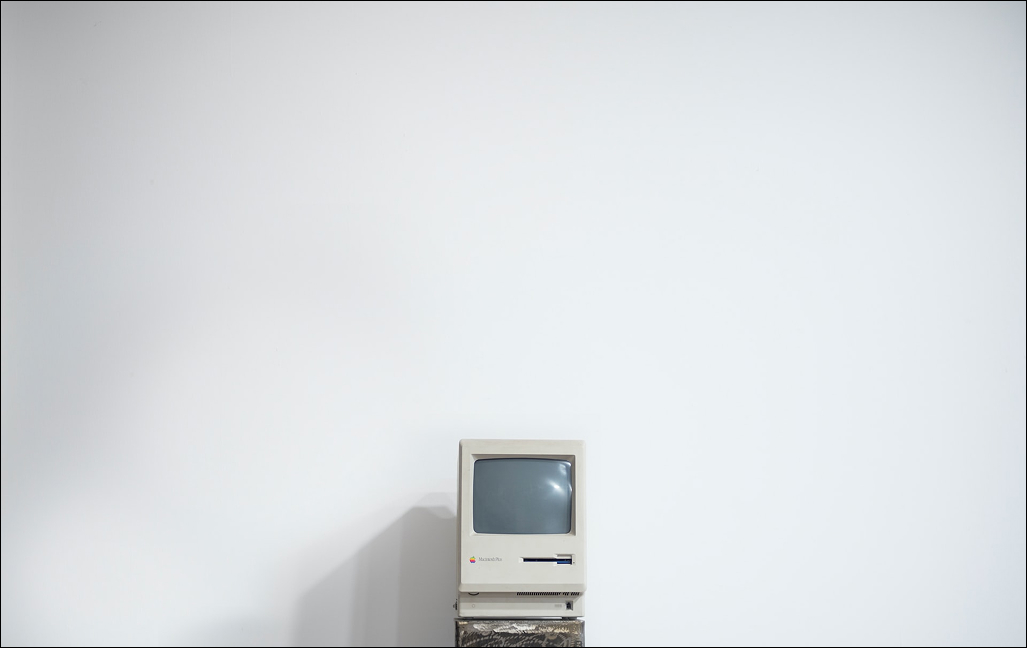
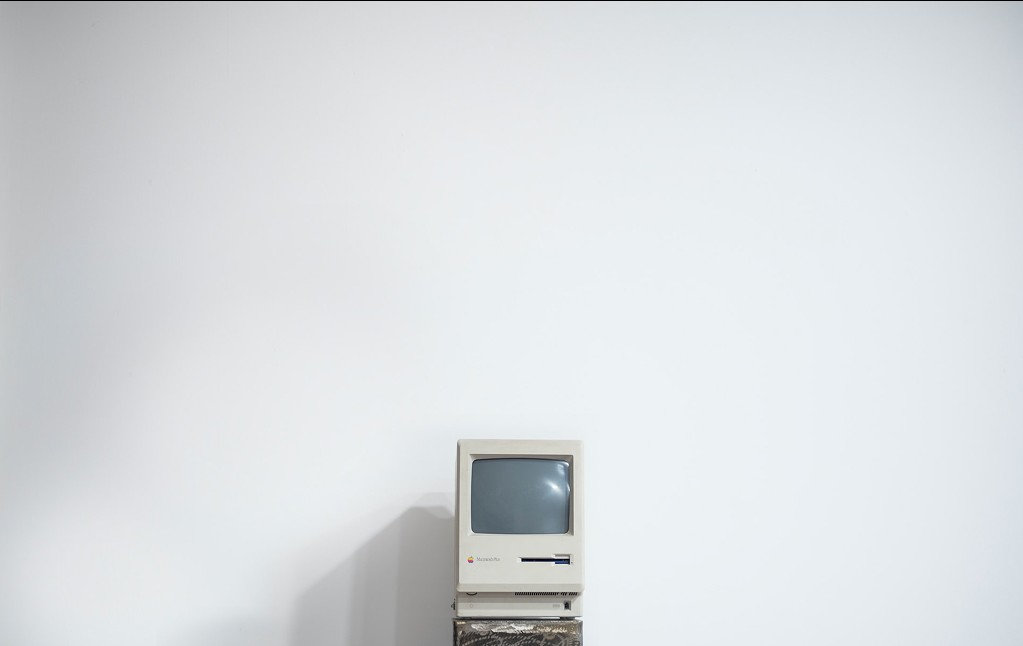
CSS Cleanup

Changed region(s): [[0.0, 0.805, 1.0, 1.0], [0.4545, 0.6811, 0.5455, 0.7121]]

diff --git a/screen.css b/screen.css
@@ -14,9 +14,7 @@ main {
 }
 
 .masthead {
-    background-image: url("images/mac.jpg");
-    background-size: cover;
-    background-position: bottom;
+    background: no-repeat bottom / cover url("images/mac1.jpg");
     height: 250px;
     border-radius: 20px;
 }
@@ -35,11 +33,11 @@ main {
 }
 
 .details section p {
-    margin: 20px;
+    margin: 25px;
 }
 
 .details section h2 {
-    margin: 20px;
+    margin: 25px;
 }
 
 .details section.with-code {
